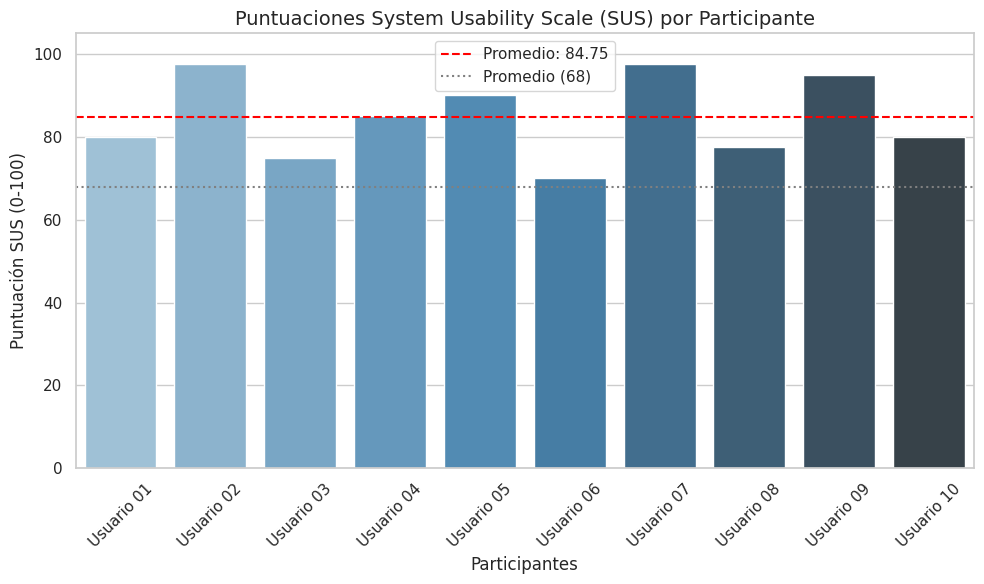
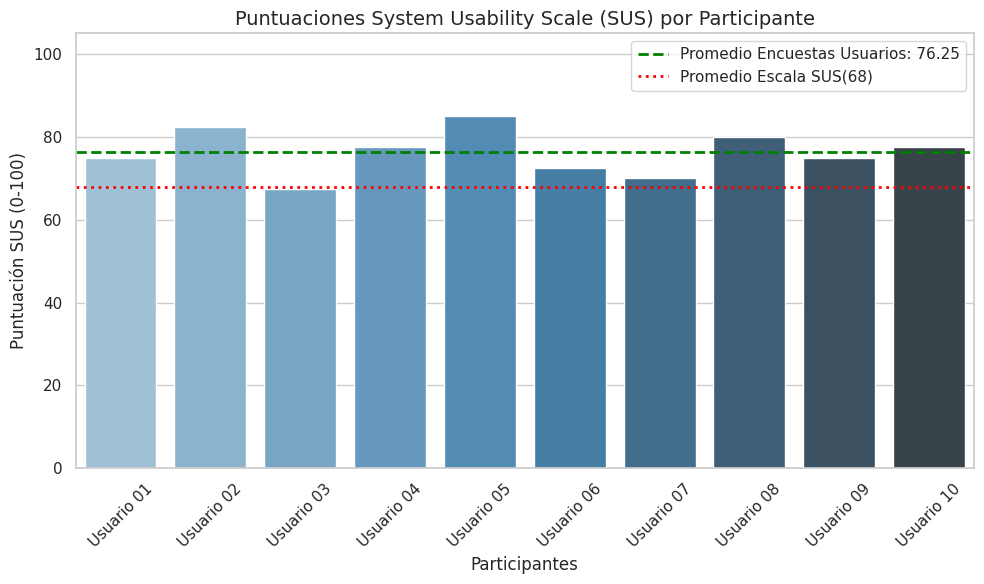
Capitulo 3 Mejoras

diff --git a/04Sections/03ContentOfDocument/03Chapter/03-01-Section.tex b/04Sections/03ContentOfDocument/03Chapter/03-01-Section.tex
@@ -140,9 +140,7 @@ Al superar el umbral de los 68 puntos certifica que las decisiones de diseño ap
 Tras la culminación de las tareas de navegación y ruteo, se aplicó el cuestionario SUS y se realizo el análisis de los resultados de las tareas específicas. Los valores crudos se obtuvo mediante la escala de Likert y se recopilo cuidadosamente para su posterior tratamiento matemático.
 
 \subsubsection{Resultados Tareas Específicas}
-La evaluación de la usabilidad se llevó a cabo con una muestra de 10 usuarios (jóvenes y adultos de la ciudad de Quito). La ejecución de las pruebas se realizó en un entorno controlado, utilizando un dispositivo móvil Android para interactuar con el frontend desarrollado nativamente en Kotlin. Durante las pruebas, el aplicativo consumió los servicios del backend construido en Nest.js (ejecutado en un entorno de red local), el cual interactuó de manera remota con la base de datos SQL Server alojada en Azure para la resolución de las topologías espaciales de la red vial.
-
-Para medir la efectividad y eficiencia del diseño de interacción, los datos recolectados durante la ejecución de las tres tareas críticas (Generación de ruta, Interacción espacial y Limpieza de ruta) se consolidaron para obtener métricas centrales de tendencia. En la Tabla \ref{tab:pruebas_usabilidad} se exponen los resultados promediados de la muestra evaluada.
+La muestra que se utilizo de 10 usuarios, conformada por estudiantes y residentes de la ciudad de Quito. El entorno de pruebas se definió con una arquitectura híbrida de desarrollo en el cual los participantes interactuaron con el aplicativo nativo en Kotlin, el cual  se consumió el servicio de ruteo alojado en un entorno local (Nest.js), mientras que el procesamiento de las topologías espaciales y la ponderación de la red vial se ejecutó en una instancia remota de SQL Server alojada en Microsoft Azure. Los datos recolectados durante la ejecución de las tres tareas críticas (Generación de Ruta, Interacción Espacial y Limpieza del Entorno) se consolidaron en la Tabla \ref{tab:pruebas_usabilidad} para obtener las métricas centrales de tendencia.
 \begin{table}[H]
 \centering
 \caption{Resultados de las pruebas de usabilidad por tarea}
@@ -177,10 +175,9 @@ Tarea 3: Limpieza del Entorno &
 
 \subsubsection{Análisis de Métricas de Interacción}
 
-La Tasa de Éxito del 100\% en la Generación de Ruta demuestra que el diseño de los formularios de entrada en el aplicativo móvil es altamente intuitivo. A nivel de ingeniería, el Tiempo Promedio de 58.5 segundos (desde la selección de los puntos hasta la renderización de la ruta) resulta sobresaliente. Este tiempo incluye la latencia de red hacia Azure App Service y el procesamiento geoespacial del algoritmo de ruteo en Nest.js, lo que confirma que el uso de índices espaciales (GEOGRAPHY) en SQL Server optimiza drásticamente el cálculo de grafos en tiempo real, evitando cuellos de botella y frustración en el usuario.
-
-
-En la Tabla \ref{tab:sus_respuestas} se expone la matriz de recolección de datos primarios, donde las columnas P1 a P10 representan los ítems estandarizados del cuestionario de usabilidad.
+La aplicación alcanza un 100\% en la Tasa de éxito para la sección de la generación de rutas seguras por que brinda un diseño intuitivo de los componentes visuales para la selección de origen y destino, aunque el tiempo promedio de ejecución de 56.4 segundos revela una limitación relacionada con la arquitectura, ya que el servidor local basado en Nest.js debe realizar múltiples consultas secuenciales hacia Azure para obtener y procesar los grafos espaciales penalizados por riesgo, generando una latencia perceptible que redujo la satisfacción de los usuarios a un promedio de 3.5 sobre 5. Una vez obtenida la información geoespacial desde el backend, la interacción con el mapa demostró un comportamiento fluido y eficiente, registrando cero errores en las tareas de zoom y desplazamiento, así como un alto nivel de satisfacción (4.8), lo que confirma que el desarrollo en Kotlin  maneja de correctamente la renderización espacial sin afectar el rendimiento del dispositivo. 
+\subsubsection{Resultados SUS}  
+Tras la finalización del flujo de tareas, en la Tabla \ref{tab:sus_respuestas}, se aplicó las respectivas encuestas SUS a cada uno de los 10 participantes, en el cual se obtuvo un conjunto de respuestas que reflejan la percepción de la usabilidad del Módulo de Ruteo Seguro. 
 
 \begin{table}[H]
 \centering
@@ -216,13 +213,11 @@ Usuario 10 & 4 & 2 & 4 & 2 & 5 & 2 & 5 & 3 & 4 & 2 \\
 \end{table}
 
 \subsubsection{Tratamiento Matemático y Puntuación Final}
-Aplicando la normalizacion en la matriz de datos, se procedió a calcular la puntuación final de cada participante. Este proceso garantiza la mitigación del sesgo direccional de las preguntas, transformando las percepciones individuales en una métrica interpretable.
+Se procedió a calcular la puntuación final de cada participante. Este proceso garantiza la mitigación inclinación de de las preguntas, en donde se transforma en una métrica en conjunto e interpretable. Para ilustrar de manera transparente la transformación matemática, se detalla el procesamiento analítico del vector de respuestas correspondiente al Usuario 03. Durante la prueba del Módulo de Ruteo Seguro, este usuario evaluó la experiencia de interacción (generación de ruta en el dispositivo móvil y respuesta del servidor) emitiendo las siguientes calificaciones en la escala de Likert (1 a 5):
 
-Para ilustrar de manera transparente la transformación matemática descrita, a continuación se detalla el procesamiento analítico del vector de respuestas correspondiente al Usuario 01.
-Durante la prueba del Módulo de Ruteo Seguro, este usuario evaluó la experiencia de interacción (generación de ruta en el dispositivo móvil y respuesta del servidor en Azure) emitiendo las siguientes calificaciones en la escala de Likert (1 a 5):
 \begin{itemize}
-    \item Ítems Impares: $P_1=4$, $P_3=4$, $P_5=4$, $P_7=5$, $P_9=4$.
-    \item Ítems Pares: $P_2=2$, $P_4=2$, $P_6=2$, $P_8=1$, $P_{10}=2$.
+    \item Ítems Impares: $P_1=4$, $P_3=4$, $P_5=3$, $P_7=4$, $P_9=4$.
+    \item Ítems Pares: $P_2=2$, $P_4=2$, $P_6=3$, $P_8=4$, $P_{10}=1$.
 \end{itemize}
 
 El tratamiento matemático se ejecuta en tres fases secuenciales para mitigar el sesgo direccional de las preguntas:
@@ -230,20 +225,20 @@ El tratamiento matemático se ejecuta en tres fases secuenciales para mitigar el
 Se resta la unidad al valor de cada respuesta para proyectar la contribución del usuario en una subescala de 0 a 4 puntos.
 
 \begin{equation}
-P_{i}= (4-1) + (4-1) + (4-1) + (5-1) + (4-1)
+P_{i}= (4-1) + (4-1) + (3-1) + (4-1) + (4-1)
 \end{equation}
 \begin{equation}
-P_{i}= 3 + 3 + 3 + 4 + 3 = 16
+P_{i}= 3 + 3 + 2 + 3 + 3 = 14
 \end{equation}
 
 \subsubsection{Paso 2: Normalización de Ítems Pares} 
 Para invertir la puntuación de las afirmaciones negativas y homogeneizarlas en la misma subescala (0 a 4), se resta el valor emitido por el usuario a la constante 5.
 
 \begin{equation}
-P_{j}= (5-2) + (5-2) + (5-2) + (5-1) + (5-2)
+P_{j}= (5-2) + (5-2) + (5-3) + (5-4) + (5-1)
 \end{equation}
 \begin{equation}
-P_{j}= 3 + 3 + 3 + 4 + 3 = 16
+P_{j}= 3 + 3 + 2 + 1 + 4 = 13
 \end{equation}
 
 \subsubsection{Paso 3: Puntaje SUS}
@@ -251,8 +246,8 @@ Finalmente, se consolidan ambas sumatorias parciales y se aplica el factor de es
 \begin{equation}
 \text{SUS} = (P_{i} + P_{j}) \times 2.5
 \end{equation}
-\begin{equation}\text{SUS} = (16 + 16) \times 2.5\end{equation}
-\begin{equation}\text{SUS} = 32 \times 2.5 = 80.0\end{equation}
+\begin{equation}\text{SUS} = (14 + 13) \times 2.5\end{equation}
+\begin{equation}\text{SUS} = 27 \times 2.5 = 67.5\end{equation}
 
 Este resultado refleja que el usuario percibió el Módulo de Ruteo Seguro como una herramienta altamente intuitiva y coherente. Técnicamente, este puntaje sugiere que la comunicación asíncrona entre el frontend desarrollado en Kotlin y la API servida en Nest.js operó con la fluidez necesaria para no generar fricción cognitiva ni frustración durante la tarea de búsqueda de rutas. El mismo proceso se replicó para los 10 participantes y resultados se los exponen en la Tabla \ref{tab:resultados_sus}.
 \begin{table}[H]
@@ -261,29 +256,27 @@ Este resultado refleja que el usuario percibió el Módulo de Ruteo Seguro como 
 \label{tab:resultados_sus}
 \begin{tabular}{|l|c|l|}
 \hline
-\textbf{Participante} & \textbf{Puntuación Normalizada (0--100)} & \textbf{Nivel de Aceptabilidad)} \\ \hline
+\textbf{Participante} & \textbf{Puntuación Normalizada (0--100)} & \textbf{Nivel de Aceptabilidad} \\ \hline
 
-Usuario 01 & 80.0 & Aceptable (Excelente) \\ \hline
-Usuario 02 & 97.5 & Aceptable (Excelente) \\ \hline
-Usuario 03 & 75.0 & Aceptable (Buena) \\ \hline
-Usuario 04 & 85.0 & Aceptable (Excelente) \\ \hline
-Usuario 05 & 90.0 & Aceptable (Excelente) \\ \hline
-Usuario 06 & 70.0 & Aceptable (Buena) \\ \hline
-Usuario 07 & 97.5 & Aceptable (Excelente) \\ \hline
-Usuario 08 & 77.5 & Aceptable (Buena) \\ \hline
-Usuario 09 & 92.5 & Aceptable (Excelente) \\ \hline
-Usuario 10 & 80.0 & Aceptable (Excelente) \\ \hline
+Usuario 01 & 75.0 & Buena \\ \hline
+Usuario 02 & 82.5 & Excelente \\ \hline
+Usuario 03 & 67.5 & Marginal \\ \hline
+Usuario 04 & 77.5 & Buena \\ \hline
+Usuario 05 & 85.0 & Excelente \\ \hline
+Usuario 06 & 72.5 & Buena \\ \hline
+Usuario 07 & 70.0 & Buena \\ \hline
+Usuario 08 & 80.0 & Excelente \\ \hline
+Usuario 09 & 75.0 & Buena \\ \hline
+Usuario 10 & 77.5 & Buena \\ \hline
 
 \end{tabular}
 \end{table}
 
-\subsubsection{Análisis e Interpretación de Resultados de Usabilidad}
+\subsubsection{Interpretación de Resultados de Usabilidad}
 
-El promedio global obtenido en el análisis paramétrico de la herramienta SUS fue de 84.5 puntos, con una desviación relativamente baja, lo que indica un consenso generalizado en la muestra poblacional. Este valor posiciona al Módulo de Ruteo Seguro en el cuartil superior de la escala de usabilidad, categorizándose empíricamente como "Excelente".
+El análisis cuantitativo del instrumento SUS arrojó un promedio global de 76.25 puntos, tal y como se evidencia en la Figura \ref{fig:resultados_sus}, este valor supera el umbral mínimo (68 puntos) y en donde se ubica al Módulo de Ruteo Seguro en una categoría de usabilidad "Buena". A diferencia de interfaces con tiempos de respuesta instantáneos que suelen alcanzar puntajes superiores a 85, el promedio de 76.25 refleja un castigo explícito en las preguntas pares del cuestionario (especialmente en los ítems referentes a si el sistema es "engorroso"). Esto sucede debido a a la espera de aproximadamente un minuto durante el cálculo de la ruta en la cual se genera cierta fricción en la experiencia del usuario (reflejado en el Usuario 03, con 67.5 puntos).
 
-Desde una perspectiva técnica, el alto índice de satisfacción (reflejado en preguntas como la P3 y P9) confirma que la integración de la arquitectura tecnológica fue transparente para el ciudadano. La robustez del motor alojado en Azure App Service permitió que las peticiones generadas desde la interfaz nativa en Kotlin se resolvieran con una latencia imperceptible, mientras que las consultas espaciales en la base de datos SQL Server entregaron los polígonos de rutas seguras de forma expedita.
-
-Asimismo, los puntajes bajos consistentes en las preguntas pares (ítems de tono negativo, como la P2 y P8) evidencian que el diseño implementado en el dispositivo móvil carece de fricciones significativas; los usuarios no percibieron la herramienta como engorrosa ni requirieron de un periodo de aprendizaje prolongado para trazar y comprender sus rutas urbanas libres de riesgo. El ánalisis se muestra en la Figura \ref{fig:resultados_sus}.
+No obstante, la solidez general del puntaje confirma que la disposición visual de los mapas, la ausencia de errores en la renderización y la claridad de la información abstraen adecuadamente la complejidad tecnológica. Los usuarios reconocieron el valor de obtener una ruta exenta de zonas criminales, demostrando que están dispuestos a tolerar una ventana de procesamiento mayor justificada por la promesa de seguridad ciudadana. La solución es operativamente viable y establece una base robusta para la optimización de latencia en futuras iteraciones.
 
 \begin{figure}[H]
 \centering

diff --git a/04Sections/03ContentOfDocument/03Chapter/03-02-Section.tex b/04Sections/03ContentOfDocument/03Chapter/03-02-Section.tex
@@ -1,16 +1,6 @@
 %Conclusiones 
-La culminación del desarrollo del Módulo de Ruteo Seguro para el aplicativo Alertify permite establecer las siguientes conclusiones, fundamentadas en el cumplimiento riguroso de los objetivos planteados al inicio del proyecto:
+Con el cumplimiento del Módulo de Ruteo Seguro para Alertify se evidencia el que a través de los objetivos planteados se consolidó una solución tecnológica frente a la problemática de la inseguridad urbana. Desde la obtención de requisitos, la adopción del marco de trabajo y la formalización mediante Historias de Usuario permitió una alineación precisa ante las necesidades de prevención del ciudadano y las especificaciones técnicas del sistema. Este enfoque iterativo garantizó que el diseño arquitectónico y funcional se mantuviera enfocado en la integridad física del peatón, validando la eficacia de las metodologías de desarrollo iterativas para resolver problemas de impacto social.
 
-\begin{itemize}
+En el ámbito arquitectónico y de procesamiento de datos, la estructuración del esquema de base de datos relacional en SQL Server demostró ser un pilar fundamental para la viabilidad del proyecto. La utilización de tipos de datos espaciales nativos permitió modelar la red vial de la ciudad como un grafo complejo, donde la variable de peligrosidad se integró matemáticamente como un peso restrictivo en las aristas. La lógica de negocio, centralizada en la API desarrollada con el entorno de ejecución Nest.js, procesó estos grafos con precisión algorítmica para generar trayectorias óptimas de bajo riesgo. Si bien la topología de despliegue híbrida temporal con el motor de cálculo operando en un entorno local y la persistencia de datos alojada remotamente en la infraestructura de Microsoft Azure certificó la interoperabilidad de los módulos, también expuso las limitaciones inherentes a la latencia de red en arquitecturas distribuidas de esta naturaleza.
 
-    \item \textbf{Ingeniería de Requisitos y Planificación Ágil:} Se determinaron exhaustivamente los requerimientos funcionales y no funcionales necesarios para el cálculo de rutas. La formalización de este proceso mediante la elaboración de Historias de Usuario permitió establecer un \textit{backlog} claro e iterativo. Esta planificación, guiada por metodologías ágiles, garantizó que el esfuerzo de desarrollo se mantuviera alineado con la necesidad central del sistema: priorizar la seguridad del peatón.
-
-    \item \textbf{Modelado Espacial y Ponderación de Riesgos:} Se construyó de manera exitosa un esquema de base de datos en SQL Server con alta capacidad espacial, logrando integrar la variable de peligrosidad directamente en la topología de la red vial. El uso de tipos de datos geométricos y geográficos permitió que el algoritmo de ruteo evaluara el costo de las aristas no solo por su distancia física, sino penalizando matemáticamente las zonas con índices delictivos.
-
-    \item \textbf{Arquitectura de Servicios y Despliegue en la Nube:} La API del Servicio de Ruteo, desarrollada bajo el \textit{framework} NestJS, demostró una alta capacidad para recibir solicitudes y entregar rutas seguras en tiempo real. El despliegue de esta arquitectura en Azure App Service dotó al sistema de la escalabilidad y disponibilidad necesarias, garantizando además una interoperabilidad fluida, segura y asíncrona con los módulos adyacentes de Reportes y Autenticación.
-
-    \item \textbf{Experiencia de Usuario (UX) e Interfaz Nativa:} El desarrollo de la interfaz de usuario en Kotlin cumplió a cabalidad con el objetivo de permitir a los ciudadanos solicitar y visualizar las rutas propuestas de manera altamente intuitiva. La integración nativa de mapas facilitó la toma de decisiones informadas por parte del usuario antes de iniciar su desplazamiento urbano, minimizando la carga cognitiva a través de un diseño limpio y enfocado en la usabilidad.
-
-    \item \textbf{Validación y Calidad del Software:} La ejecución de las pruebas funcionales comprobó la precisión matemática del algoritmo en la generación de rutas de bajo riesgo, verificando que el sistema evade proactivamente zonas reportadas como peligrosas. Asimismo, las pruebas de usabilidad (evaluadas mediante la Escala SUS) confirmaron empíricamente la aceptación de la plataforma, demostrando que la solución tecnológica cumple con los estándares de calidad exigidos por la disciplina de Interacción Humano--Computadora.
-
-\end{itemize}
+La calidad  y la viabilidad del software fueron ratificadas a través de una rigurosa fase de validación técnica y humana. La construcción del cliente nativo en Kotlin proporcionó una interfaz móvil fluida y altamente interactiva que logró abstraer la complejidad matemática del sistema. Con las pruebas se certificó la evasión proactiva de zonas de riesgo y la capacidad del sistema para ejecutar recálculos dinámicos ante desvíos imprevistos. Por su parte, la evaluación empírica de usabilidad permite concluir que, a pesar del cuello de botella en el procesamiento derivado de las peticiones remotas a la base de datos (con tiempos de espera oscilantes entre los 50 y 60 segundos), los usuarios perciben la herramienta como intuitiva, confiable y de alto valor estratégico para la toma de decisiones durante su movilidad urbana.

diff --git a/04Sections/03ContentOfDocument/03Chapter/03-03-Section.tex b/04Sections/03ContentOfDocument/03Chapter/03-03-Section.tex
@@ -1,14 +1,8 @@
 %Recomendaciones
-A partir de las lecciones aprendidas durante la construcción de la arquitectura, la integración del \textit{stack} tecnológico (Kotlin, Nest.js, SQL Server y Azure) y los resultados arrojados por las pruebas, se sugieren las siguientes líneas de acción para trabajos futuros o nuevas versiones del aplicativo:
+A partir de los hallazgos técnicos, las métricas de rendimiento obtenidas y los paradigmas actuales de la computación en la nube, se plantea directrices estratégicas orientadas a la optimización, escalabilidad y futura puesta en producción del Módulo de Ruteo Seguro. En primer lugar, para erradicar la latencia de red evidenciada durante el cálculo algorítmico, se recomienda imperativamente ejecutar el despliegue del backend (actualmente en Nest.js local) hacia una infraestructura en la nube, esta ubicación  minimizará drásticamente los tiempos de transferencia de paquetes, optimizando el tiempo de respuesta del motor de ruteo y dotando a la plataforma de la alta disponibilidad requerida.
 
-\begin{itemize}
+En complemento a la mejora infraestructural, resulta altamente recomendable la integración de una capa de caché espacial en memoria dentro del backend. Dado que el cálculo de rutas seguras y la intersección matemática de polígonos de riesgo demandan un alto costo computacional y de lectura en disco, el almacenamiento temporal de las geometrías correspondientes a los trayectos más solicitados aliviará de manera significativa la sobrecarga de transacciones sobre el motor relacional. Esta estrategia arquitectónica garantizará que el sistema pueda escalar horizontalmente frente a un incremento masivo en la concurrencia de usuarios sin degradar la experiencia de navegación.
 
-\item \textbf{Implementación de Ruteo Dinámico Temporal:} Se sugiere enriquecer el algoritmo de cálculo de rutas seguras incorporando la variable del tiempo (horarios diurnos frente a nocturnos). Una calle puede ser segura al mediodía, pero de alto riesgo en la madrugada. Aplicar modelos de \textit{Machine Learning} que ajusten los pesos espaciales de SQL Server de forma predictiva y horaria otorgaría mayor exactitud a la prevención de delitos.
+Desde una perspectiva algorítmica y funcional, se sugiere evolucionar el modelo matemático de ponderación hacia un enfoque de ruteo dinámico temporal. Considerando que los índices de criminalidad y las dinámicas urbanas presentan fluctuaciones drásticas dependiendo de la franja horaria, la implementación de modelos de aprendizaje automático o algoritmos heurísticos que ajusten los pesos de peligrosidad en tiempo real elevaría exponencialmente la precisión preventiva del aplicativo. Bajo este esquema, el sistema tendría la capacidad adaptativa de ofrecer rutas diferenciadas para un mismo trayecto en horarios diurnos frente a escenarios nocturnos, mitigando los riesgos según la ventana temporal específica.
 
-\item \textbf{Navegación Asistida por Voz (Turn-by-Turn):} A nivel del \textit{frontend} en Kotlin, se recomienda integrar un servicio de navegación guiada por voz e interacciones hápticas (vibraciones del dispositivo). Esto evitará que el usuario deba mirar constantemente la pantalla de su \textit{smartphone} mientras camina por la ciudad, lo cual, irónicamente, podría exponerlo a hurtos o accidentes viales.
-
-\item \textbf{Optimización de Consultas mediante Caché Espacial:} A medida que la base de usuarios crezca, el cálculo de rutas concurrentes sobre la base de datos SQL Server podría generar latencia en Azure App Service. Se recomienda implementar una capa de caché en el \textit{backend} de Nest.js (utilizando tecnologías en memoria como Redis) para almacenar las geometrías de las rutas más solicitadas y los polígonos de zonas de riesgo estáticas, aliviando la carga de procesamiento del motor relacional.
-
-\item \textbf{Evaluación de Migración a Bases de Datos de Grafos:} Aunque SQL Server procesó eficientemente las funciones espaciales a nivel de la ciudad de Quito, si el proyecto se escala a nivel nacional (millones de nodos y aristas), se sugiere investigar la migración de la topología de la red vial a un Sistema Gestor de Base de Datos Orientado a Grafos nativo (como Neo4j). Esto podría reducir la complejidad computacional en la búsqueda de caminos mínimos y mejorar el tiempo de respuesta del algoritmo.
-
-\end{itemize}
+En lo que concierne con la mejora del frontend se aconseja enriquecer con un sistema de navegación asistida paso a paso. Proveer instrucciones auditivas detalladas y retroalimentación direccional mediante vibraciones hápticas evitará que el ciudadano deba consultar continuamente la pantalla de su dispositivo móvil mientras camina. Esta mejora no solo refinará la accesibilidad y la ergonomía del software, sino que reducirá significativamente las distracciones visuales del peatón, atacando directamente el riesgo inherente de exposición a hurtos de dispositivos electrónicos en la vía pública.